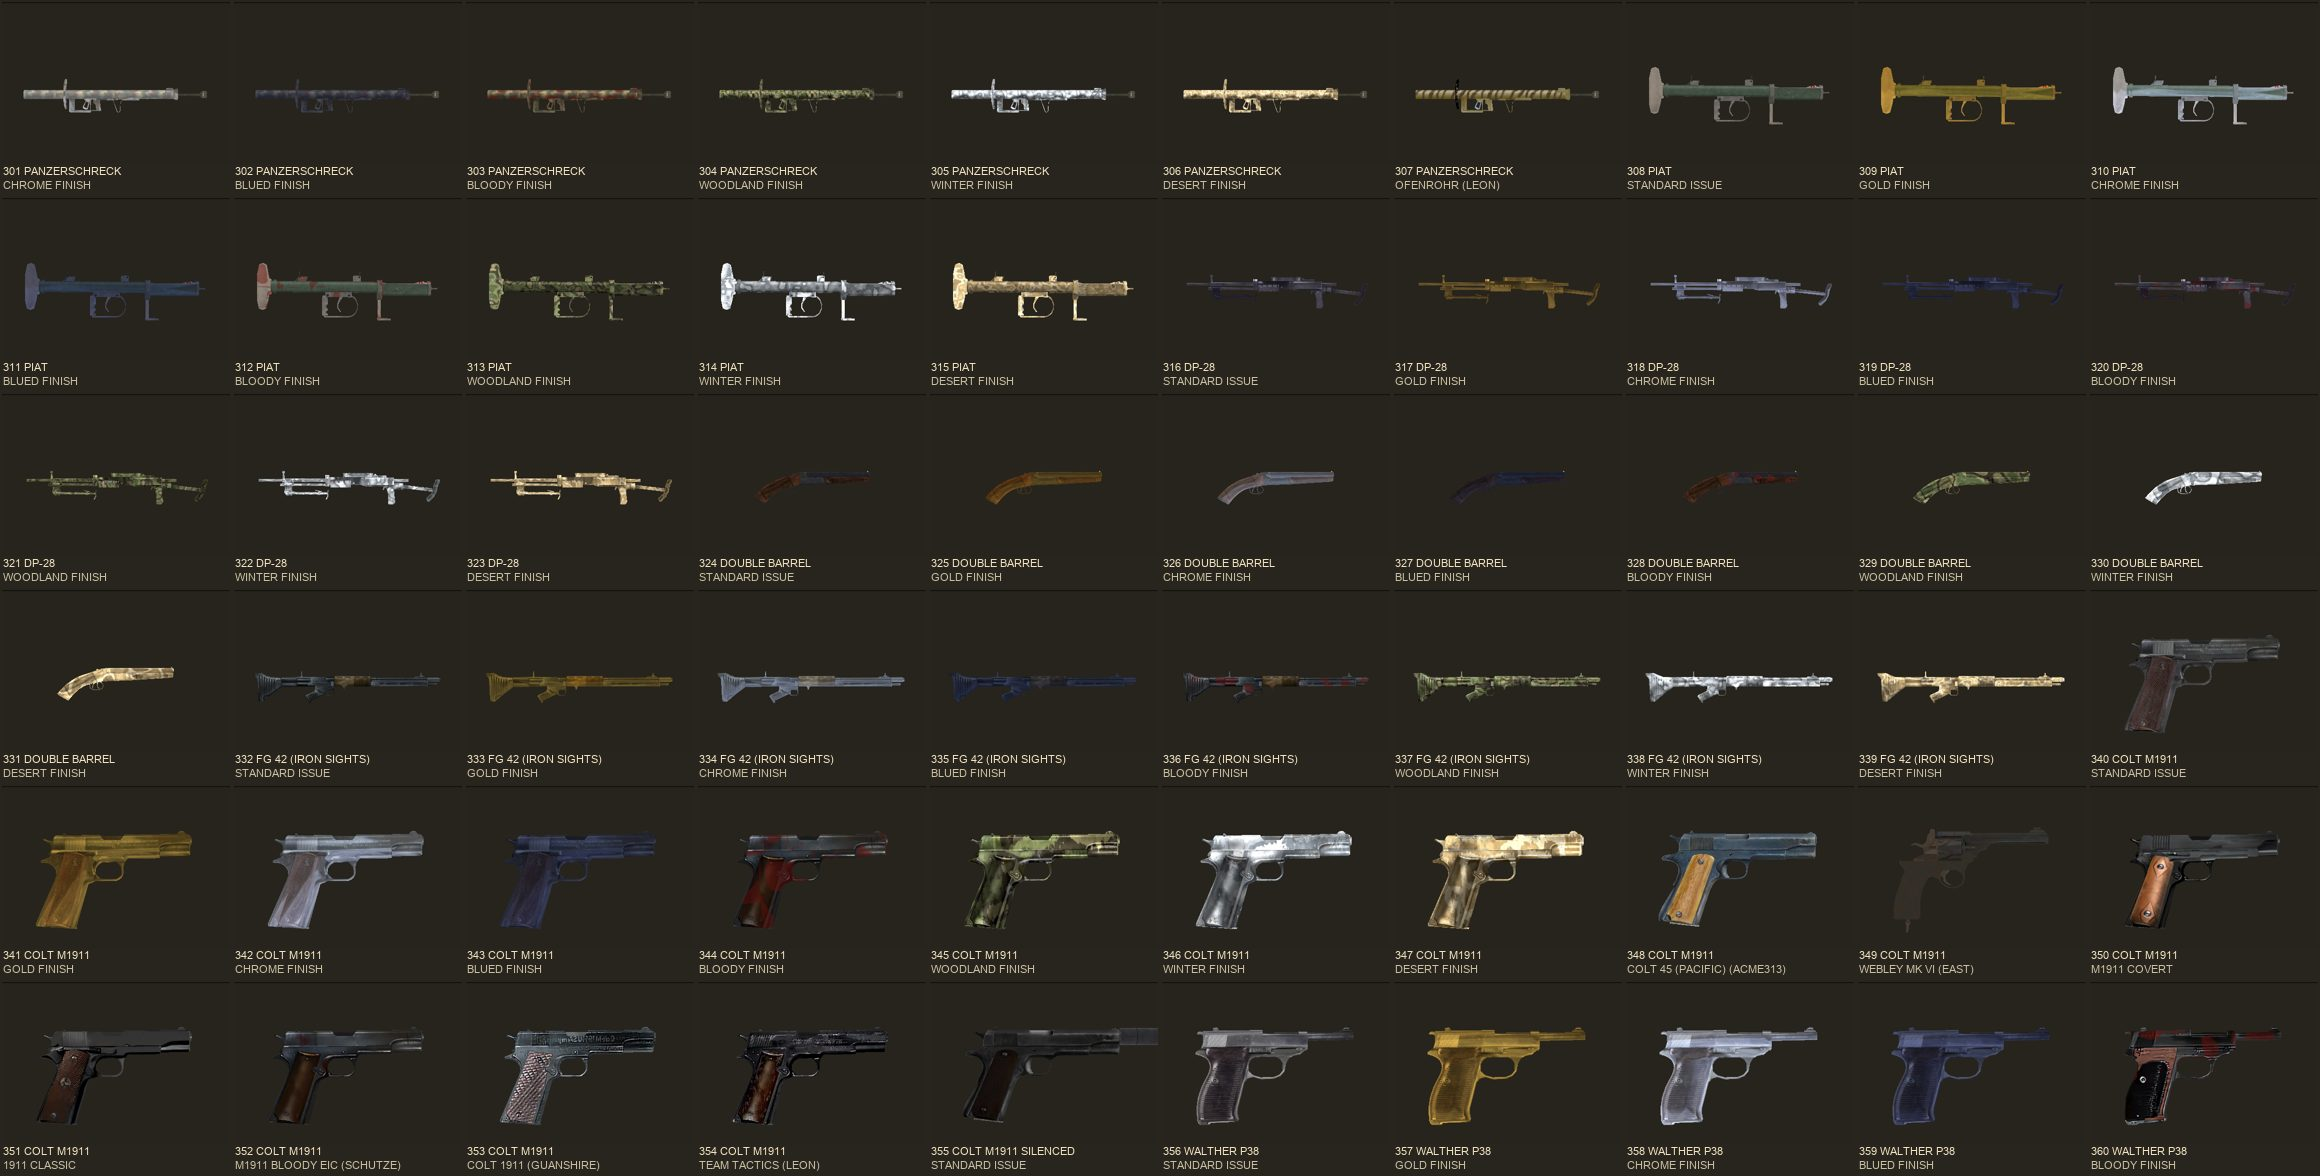
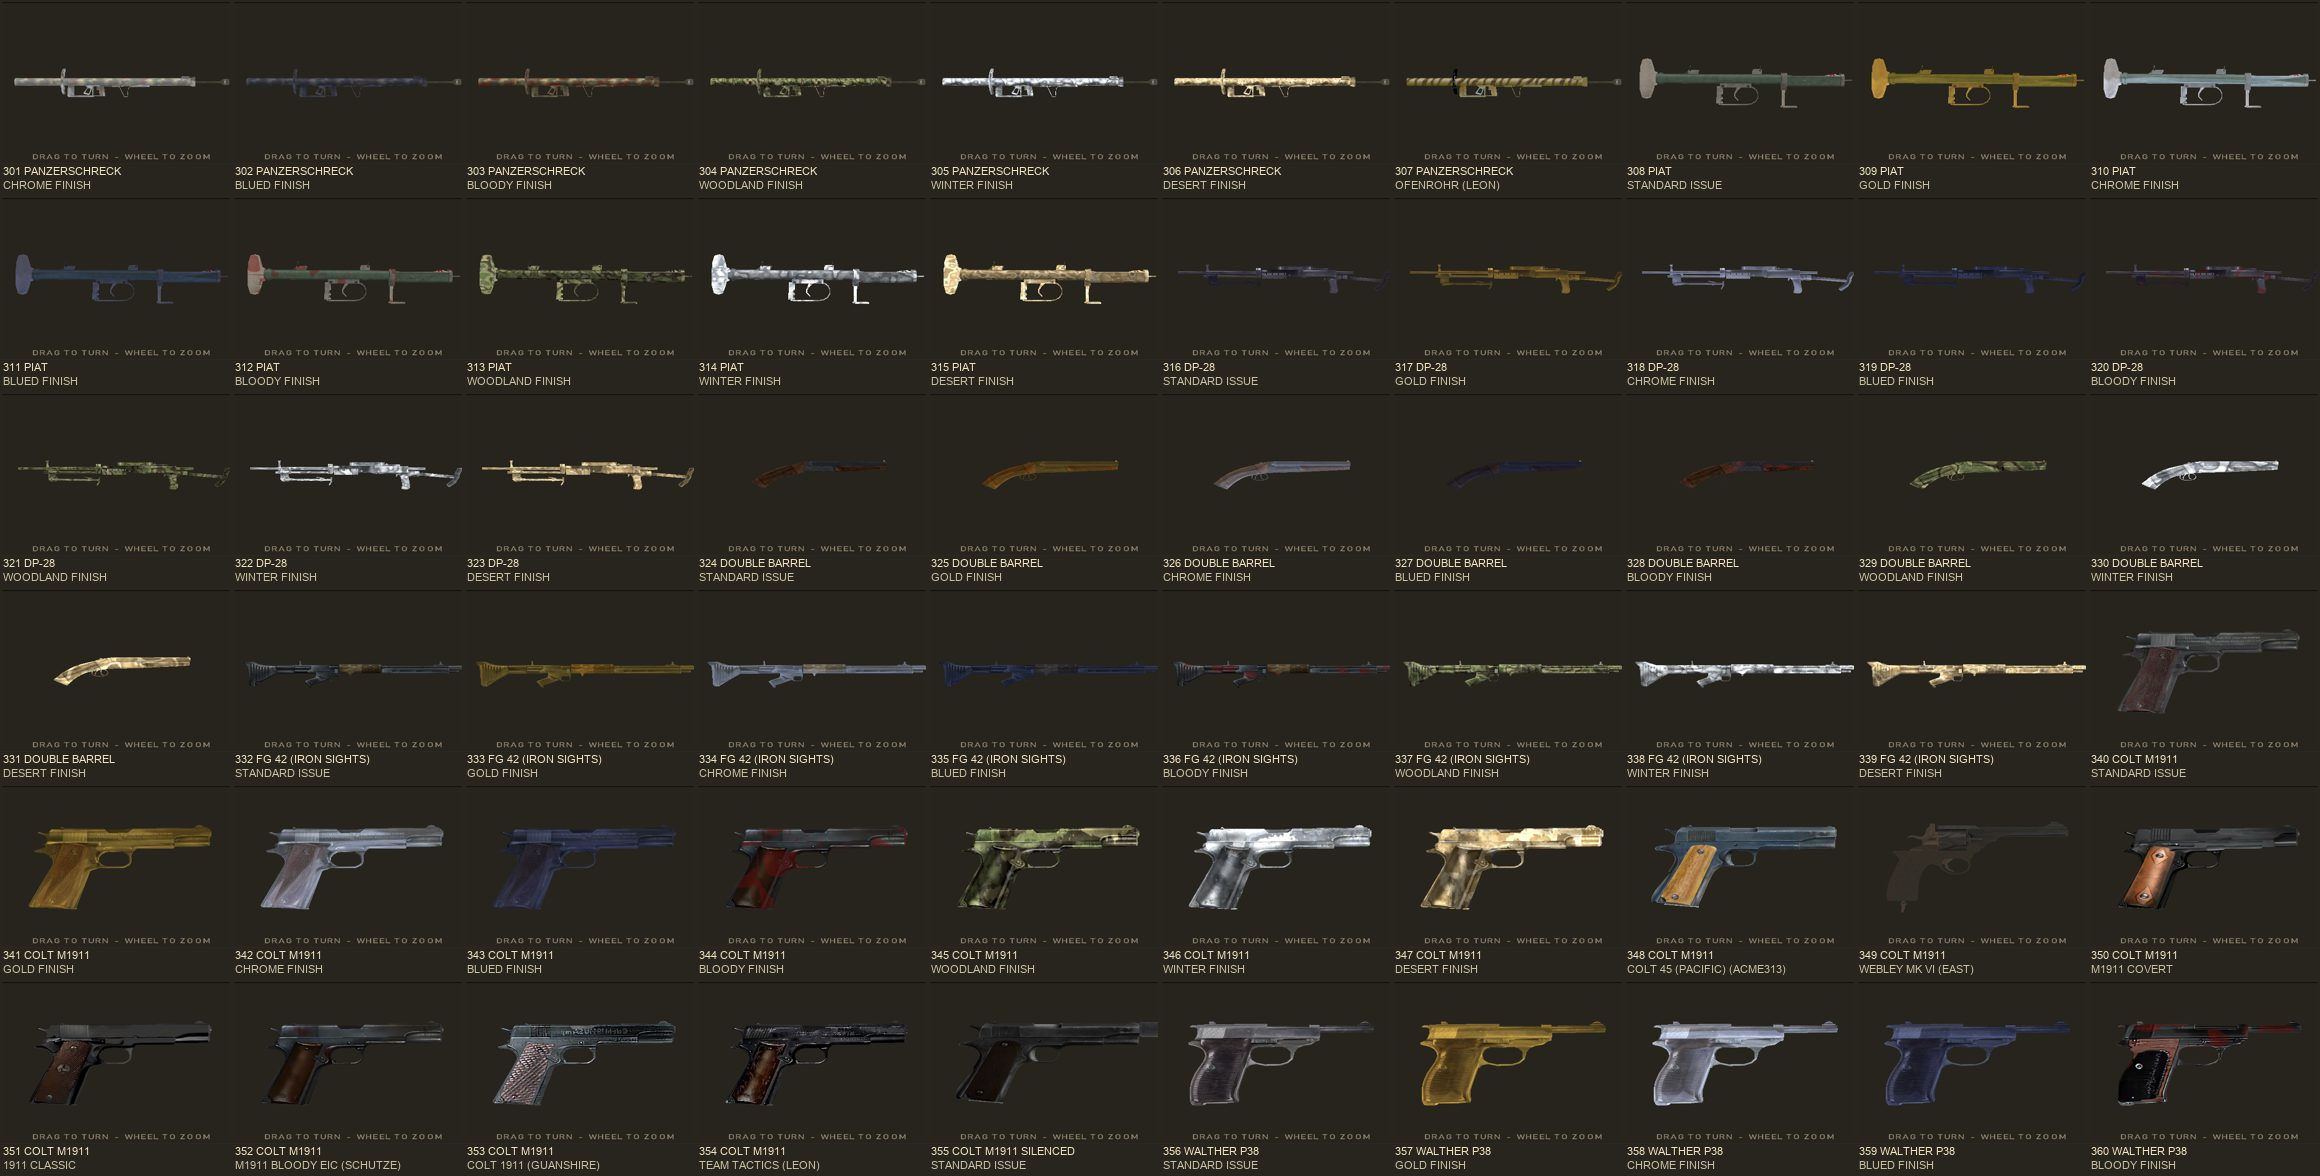
tools: gen_weapon_viewer follows the attic rack (replaces only RACK_CMD, pose from their hotspot, --rack-pose / --main), list fit asserted; re-shot QA

diff --git a/docs/tools/gen_weapon_viewer.py b/docs/tools/gen_weapon_viewer.py
@@ -381,8 +381,8 @@ WHITE = (1.0, 1.0, 1.0, 1.0)
 GLOW = "textures/mohmenu/hzm_theme/mpui_glow"
 GLOW_P = "textures/mohmenu/hzm_theme/mpui_glow_paper"
 
-LIST = (34, 98, 130, 14)          # x y w row-h of the gun list
-VIEW = (172, 98, 290, 250)        # the orbit viewer
+LIST = (34, 98, 176, 14)          # x y w row-h of the gun list: wide enough for the longest roster name at every aspect (asserted)
+VIEW = (216, 98, 246, 250)        # the orbit viewer
 RIGHT = (470, 98, 136)            # the info column
 HIST_Y, HIST_W, HIST_N = 398, 566, 4
 # the @3x fonts the engine swaps in at high resolutions run up to ~10 % wider than the 1x metrics measured here (seen at 1440x1080):
@@ -447,15 +447,27 @@ def approach(look_bu, dist, fov, lift=0.0, dirbu=None):
     return "%.1f %.1f %.1f %.2f %.2f %.2f %.2f" % (o[0], o[1], o[2], math.degrees(-math.asin(f[2])), math.degrees(math.atan2(f[1], f[0])), 0.0, fov)
 
 
-RACK_POSE = approach(RACK_C_BU, RACK_DIST, RACK_FOV, 0.0, RACK_DIR)
-RACK_CMD = ("set ui_scene_hot 0; exec ui/wpnview/open.cfg; globalwidgetcommand atticscene sceneleave 1; "
-            "globalwidgetcommand atticscene scenefly 0.6 %s; uiafter 0.6 pushmenu hzm_wpnview" % RACK_POSE)
-
-MAIN = os.path.join(MOD, "ui", "main.urc")
+MAIN = arg("--main", os.path.join(MOD, "ui", "main.urc"))     # --main: a main.urc elsewhere (merge rehearsal), read and written there
 main_raw = io.open(MAIN, "rb").read().decode("latin-1")
 main_nl = "\r\n" if "\r\n" in main_raw else "\n"
 main_t = main_raw.replace("\r\n", "\n")
 _scene = re.search(r'name "atticscene"\n(.*?)\n\}\n', main_t, re.S).group(1)
+
+# WHERE THE RACK IS belongs to the attic session. Precedence: --rack-pose "x y z pitch yaw roll fov" (and --rack-centre "x y z",
+# game units) on the command line; else the pose their own `scenehot "rack"` already flies to (the first `scenefly 0.6 <pose>`
+# in its command - their placeholder, or ours from an earlier run); else the RACK_C_BU defaults above. When they move the rack,
+# the viewer (hotspot command, the viewer's own camera, the test cfg) follows on the next run with no edit here.
+_POSE_RX = r"scenefly 0\.6 ((?:-?[\d.]+ ){6}-?[\d.]+)"
+_rack_hot = re.search(r'(?m)^scenehot "rack" (\S+) (\S+) (\S+) (\S+) "([^"]*)"', _scene)
+RACK_POSE = arg("--rack-pose")
+if not RACK_POSE and _rack_hot and re.search(_POSE_RX, _rack_hot.group(5)):
+    RACK_POSE = re.search(_POSE_RX, _rack_hot.group(5)).group(1)
+if not RACK_POSE:
+    RACK_POSE = approach(RACK_C_BU, RACK_DIST, RACK_FOV, 0.0, RACK_DIR)
+assert len(RACK_POSE.split()) == 7, RACK_POSE
+RACK_CENTRE = arg("--rack-centre")
+RACK_CMD = ("set ui_scene_hot 0; exec ui/wpnview/open.cfg; globalwidgetcommand atticscene sceneleave 1; "
+            "globalwidgetcommand atticscene scenefly 0.6 %s; uiafter 0.6 pushmenu hzm_wpnview" % RACK_POSE)
 ROOM = [l for l in _scene.splitlines() if l.startswith("scenemodel ") and "models/human/" not in l] + \
        [l for l in _scene.splitlines() if l.startswith("scenelight ")]
 assert len(ROOM) > 10, "atticscene models not found in main.urc"
@@ -463,15 +475,29 @@ assert len(ROOM) > 10, "atticscene models not found in main.urc"
 
 def splice_main(t):
     """the rack hotspot: the attic session's (make_attic_polish.py) if present - only its command changes - else ours, LAST"""
+    # a merge of this branch into the attic session's main.urc carries BOTH racks: drop ours (the [wpnviewer] widget block and a
+    # second copy of the three rack scene lines - theirs come first, ours were appended last) and keep theirs
+    ours = re.search(r"// ---- \[wpnviewer\] the rifle rack hotspot.*?// ---- \[wpnviewer\] end\n", t, re.S)
+    if ours and len(re.findall(r'(?m)^resource\nButton\n\{\nname "hot_rack"$', t)) > 1:
+        t = t.replace(ours.group(0), "")
+        for pfx in ('scenehot "rack" ', 'scenehotbox "rack" ', 'scenelabel "atticsign_rack" '):
+            lines = [m.start() for m in re.finditer(r"(?m)^" + re.escape(pfx), t)]
+            for s in reversed(lines[1:]):
+                t = t[:s] + t[t.index("\n", s) + 1:]
     if re.search(r'(?m)^scenehot "rack" ', t):
-        t = re.sub(r'(?m)^(scenehot "rack" \S+ \S+ \S+ \S+ )"[^"]*"', lambda m: m.group(1) + '"%s"' % RACK_CMD, t, count=1)
-        b = re.search(r'resource\nButton\n\{\nname "hot_rack"\n.*?\n\}\n', t, re.S)
-        assert b, "scenehot rack without its hot_rack proxy"
-        nb = re.sub(r'(?m)^stuffcommand "[^"]*"$', 'stuffcommand "%s"' % RACK_CMD, b.group(0))
-        return t.replace(b.group(0), nb), "rewired"
+        # replace ONLY the rack command (RACK_CMD in make_attic_polish.py): every exact copy of it - the hotspot, its hot_rack proxy
+        # and their RACK > cue (hzm_rackcue). The peek (scenepeek "rack" / PEEK_POSE), hover and gating lines are theirs and untouched.
+        old = re.search(r'(?m)^scenehot "rack" \S+ \S+ \S+ \S+ "([^"]*)"', t).group(1)
+        n = t.count('"%s"' % old)
+        assert n >= 2, "rack command found %d times (hotspot + hot_rack proxy at least)" % n
+        t = t.replace('"%s"' % old, '"%s"' % RACK_CMD)
+        if RACK_CENTRE:
+            t = re.sub(r'(?m)^scenehot "rack" \S+ \S+ \S+ ', lambda m: 'scenehot "rack" %s ' % " ".join("%.1f" % float(v) for v in RACK_CENTRE.split()), t, count=1)
+        assert re.search(r'resource\nButton\n\{\nname "hot_rack"\n', t), "scenehot rack without its hot_rack proxy"
+        return t, "rewired (%d copies of the rack command%s)" % (n, ", our duplicate rack removed" if ours and ours.group(0) not in t else "")
     hots = re.findall(r'(?m)^scenehot "(\w+)"', _scene)
     idx = len(hots) + 1
-    c = SP.conv(np.array(RACK_C_BU, float), 52.5)
+    c = [float(v) for v in RACK_CENTRE.split()] if RACK_CENTRE else SP.conv(np.array(RACK_C_BU, float), 52.5)
     sg = re.search(r'(?m)^scenelabel "atticsign\d+" (\S+ \S+ \S+ \S+ \S+)$', _scene).group(1)
     add = ['scenehot "rack" %.1f %.1f %.1f %.1f "%s" "WEAPONS RACK" "hot_rack" 0' % (c[0], c[1], c[2], 34.0, RACK_CMD),
            'scenehotbox "rack" 0.0 0.0 150.0 260.0', 'scenelabel "atticsign_rack" %s' % sg]
@@ -603,8 +629,7 @@ for k in range(len(TABS)):
     assert len(tg) * LIST[3] <= VIEW[3] + 150, "tab %d list too long" % k
     for j, g in enumerate(tg):
         nm = g["name"]
-        while width(nm) > (LIST[2] - 4) * FIT:
-            nm = nm[:-2].rstrip() + "."
+        assert width(nm) <= (LIST[2] - 4) * FIT, "gun name %r does not fit the list column" % nm
         r = (LIST[0], LIST[1] + j * LIST[3], LIST[2], LIST[3])
         U += W("Label", "gSel%s" % g["gid"], r, bg=SEL, enabledcvar="ui_wvTab==%d ui_wvG==%d" % (k, int(g["gid"])))
         U += W("Button", "g%s" % g["gid"], r, title=nm, fg=INK, bg=CLEAR, border="NONE", font="verdana-12", textalign="left",
@@ -622,17 +647,21 @@ for gid in ICON2D:
            enabledcvar="ui_wvG==%d" % int(gid))
 U += text("wvHint", (vx, vy + vh - 16, vw, 13), "DRAG TO TURN  -  WHEEL TO ZOOM", "verdana-12", (0.62, 0.57, 0.45, 0.8), "center")
 by = vy + vh + 4
-U += plate("vPrev", (vx, by, 24, 20), "<", "vstr ui_wvPrevV", font="verdana-14")
-U += W("Label", "vPlate", (vx + 26, by, vw - 52, 20), bg=PLATE, border="3D_BORDER")
-U += cvl("vName", (vx + 30, by + 3, vw - 100, 14), "ui_wvVar", "verdana-12", BEIGE)
-U += cvl("vNum", (vx + vw - 76, by + 3, 46, 14), "ui_wvVarN", "verdana-12", BEIGE, "right")
-U += plate("vNext", (vx + vw - 24, by, 24, 20), ">", "vstr ui_wvNextV", font="verdana-14")
+bx0, bw0 = LIST[0], vx + vw - LIST[0]          # the variant bar and the buttons span the list and the viewer
+U += plate("vPrev", (bx0, by, 24, 20), "<", "vstr ui_wvPrevV", font="verdana-14")
+U += W("Label", "vPlate", (bx0 + 26, by, bw0 - 52, 20), bg=PLATE, border="3D_BORDER")
+VNAME_W = bw0 - 110
+U += cvl("vName", (bx0 + 30, by + 3, VNAME_W, 14), "ui_wvVar", "verdana-12", BEIGE)
+U += cvl("vNum", (bx0 + bw0 - 76, by + 3, 46, 14), "ui_wvVarN", "verdana-12", BEIGE, "right")
+U += plate("vNext", (bx0 + bw0 - 24, by, 24, 20), ">", "vstr ui_wvNextV", font="verdana-14")
+for e in entries:
+    assert width(e["vname"]) <= VNAME_W * FIT, "variant name %r does not fit" % e["vname"]
 cy = by + 24
-bw = (vw - 6) / 4.0
+bw = (bw0 - 6) / 4.0
 for k, (nm, t, cmd) in enumerate((("gPrev", "PREV GUN", "vstr ui_wvPrevG"), ("gNext", "NEXT GUN", "vstr ui_wvNextG"),
                                   ("wvZoomB", "ZOOM", "vstr ui_wvZoomNext"), ("wvReset", "RESET VIEW", "set ui_wvSpin 0; set ui_wvTilt 0; exec ui/wpnview/z0.cfg"))):
-    U += plate(nm, (vx + k * (bw + 2), cy, bw, 20), t, cmd)
-U += cvl("wvNum", (LIST[0], cy + 4, LIST[2], 14), "ui_wvNum", "verdana-12", MUTED)
+    U += plate(nm, (bx0 + k * (bw + 2), cy, bw, 20), t, cmd)
+U += cvl("wvNum", (RIGHT[0], cy + 4, RIGHT[2], 14), "ui_wvNum", "verdana-12", MUTED)
 # the info column
 rx, ry, rw = RIGHT
 y = ry
@@ -716,7 +745,7 @@ if cmd == "list":
     sys.exit(0)
 stale = []
 for rel, txt in sorted(OUT.items()):
-    p = os.path.join(MOD, rel)
+    p = MAIN if rel == "ui/main.urc" else os.path.join(MOD, rel)
     data = txt.encode("latin-1") if rel.endswith("localization_coop.txt") else txt.encode("latin-1")
     if not os.path.exists(p) or open(p, "rb").read() != data:
         stale.append(rel)

diff --git a/docs/proposals/wpnviewer_2026-11-04/tools/wpnview_run.py b/docs/proposals/wpnviewer_2026-11-04/tools/wpnview_run.py
@@ -37,7 +37,9 @@ def setup(exe=None):
     with zipfile.ZipFile(os.path.join(MAINTT, OVERLAY), "w", zipfile.ZIP_DEFLATED) as z:
         for f in ("main.urc", "hzm_wpnview.urc", "hzm_attic_go_rack.cfg"):
             z.write(os.path.join(ui, f), "ui/" + f)
-        for f in ("springfield_m1903.tik", "KAR98sniper_g98scope.tik"):        # the two variant tiks fixed on this branch
+        fixed = ["springfield_m1903.tik", "KAR98sniper_g98scope.tik"] + ["tt33silenced_%s.tik" % k for k in
+                 ("gold", "chrome", "blued", "bloody", "camo_woodland", "camo_winter", "camo_desert")]
+        for f in fixed:                                                       # the variant tiks fixed on this branch
             z.write(os.path.join(MOD, "models", "weapons", f), "models/weapons/" + f)
         z.write(os.path.join(MOD, "global", "localization_coop.txt"), "global/localization_coop.txt")
         for f in sorted(os.listdir(os.path.join(ui, "wpnview"))):

diff --git a/docs/proposals/wpnviewer_2026-11-04/tools/contact.py b/docs/proposals/wpnviewer_2026-11-04/tools/contact.py
@@ -7,7 +7,7 @@ res = sys.argv[3] if len(sys.argv) > 3 else "720"
 W, H = {"720": (1280, 720), "1080": (1920, 1080), "43": (1440, 1080), "219": (1920, 804)}[res]
 s = H / 480.0
 ox = (W - 640 * s) / 2
-box = (int(ox + 172 * s), int(98 * s), int(ox + 462 * s), int(314 * s))
+box = (int(ox + 216 * s), int(98 * s), int(ox + 462 * s), int(348 * s))   # the viewer box (gen_weapon_viewer VIEW)
 E = {e["n"]: e for e in json.load(open(os.path.join(os.path.dirname(__file__), "..", "entries.json")))}
 TW, TH, COLS, ROWS = 232, 196, 10, 6
 font = ImageFont.truetype("arial.ttf", 11)

diff --git a/docs/proposals/wpnviewer_2026-11-04/README.md b/docs/proposals/wpnviewer_2026-11-04/README.md
@@ -28,24 +28,27 @@ name, brief history, credit if it's a skin someone made and how to unlock it ...
   **Older exe:** the three commands are unknown and silently ignored; the widget is the Armory hero preview with yaw drag
   (`media/viewer_oldexe_720.jpg`, no log errors).
 
-## Merge with the attic session's rack
-The attic session (`attic_polish_2026-11-02/tools/make_attic_polish.py`, branch attic-63) builds the rack and already appends
-`scenehot "rack"` LAST with `RACK_C_BU (2.90, 2.55, 1.56)` / `RACK_POSE` and a placeholder fly-there-and-back command, plus its
-`hot_rack` proxy and `atticsign_rack` caption. `gen_weapon_viewer.py` uses the same constants and is idempotent:
-* run it **after** `make_attic_polish.py` (last step of the main.urc rebuild order): when the rack hotspot exists it only rewrites
-  the `scenehot "rack"` command and the `hot_rack` stuffcommand (`rewired`); on a tree without it (this branch's base) it adds
-  hotspot + box + caption + proxy itself (`added`), marked `// ---- [wpnviewer]`.
-* when merging the branches, take attic-63's `main.urc` and re-run `HZM_MOD=<tree> python docs/tools/gen_weapon_viewer.py build`;
-  `check` must then report 0 stale files. If the rack moves, change `RACK_C_BU` / `RACK_DIST` in both scripts.
-* The viewer's backdrop copies every non-actor `scenemodel` / `scenelight` of `atticscene`, so after the rebuild it shows their rack.
-* Open (attic side): the rack is on the x 3.00 wall, outside the 16:9 and 4:3 home frame - only 21:9 can click it; the hot_rack
-  proxy gives pad / keyboard access. A 4:3 / 16:9 way in (a twin plate like WHAT'S NEW 4:3) is the attic session's call.
+## Merge with the attic session's rack (settled 2026-11-04)
+The attic session (`attic_polish_2026-11-02/tools/make_attic_polish.py`, branch attic-63) owns the rack: hotspot `rack` (index 17),
+proxy `hot_rack`, caption `atticsign_rack`, the RACK > cue `hzm_rackcue`, hotbox 0 0 150 260, `scenepeek "rack"` + PEEK_POSE
+(engine scenepeek on menu-attic63), RACK_POSE `133.9 -63.0 81.9 -0.00 -90.00 0.00 50.00`, and a placeholder RACK_CMD.
+`gen_weapon_viewer.py` replaces **only RACK_CMD**: every exact copy of the hotspot's command string (scenehot, hot_rack,
+hzm_rackcue - 3 copies on their tree). Peek, hover, gating and labels stay theirs.
+* **Rack position / fly pose follow theirs:** the pose is read from the first `scenefly 0.6 <pose>` in their rack command;
+  `--rack-pose "x y z p y r fov"` / `--rack-centre "x y z"` override it; RACK_C_BU defaults only when no rack exists.
+* **Order:** main.urc rebuild = make_main3d -> make_mphub3d -> make_newgame3d -> make_attic_polish -> **gen_weapon_viewer build**.
+  Take attic-63's main.urc when merging and re-run; `check` then reports 0 stale.
+* **Rehearsed** on a copy of their current main.urc (`--main <copy>`): `rewired (3 copies of the rack command)`, `check` 0 stale,
+  diff vs theirs = exactly the 3 command lines. If a merge keeps both racks (this branch added its own `[wpnviewer]` block on a
+  base without one), the generator drops ours and the duplicate scene lines and keeps theirs (rehearsed with git merge-file).
+* The viewer's backdrop copies every non-actor `scenemodel` / `scenelight` of `atticscene`, so after the rebuild it shows their rack
+  (and their new props: the rehearsal re-wrote `hzm_wpnview.urc` with the medal lid / reel models - expected).
 
 ## QA (720 / 4:3 1440x1080 / 21:9 1920x804, GL2, private client)
 `media/contact_720_01..08.jpg` (every entry), `viewer_{720,43,219}[_tilt].jpg`, `attic_rack_hover_720.jpg`, run folders under
 `H:\hzm_work\wpnviewer\runs\`. Mouse drag (spin 108 / tilt 48 after a 180x80 px drag) and the right stick both measured via cvars.
 Defects found: bug-10526 (two invisible WW1 variants, fixed), 10527 (generator), 10528 (light rig, dropped), 10529 (East's
 lightingSpherical imports render dark in any world-less preview, OPEN), 10530 (TT-33 SILENCED finishes tint only the suppressor,
-OPEN). Mills bomb: black 3D model, shown as the Armory's 2D icon (gen_loadout.ICON2D).
+OPEN), 10530 -> fixed in 10532 (TT-33 SILENCED finishes now skin the body). Coordinator QA 2026-11-04: list names (10531, fixed: column 176 px, fit asserted), MOSIN SNIPER SILENCED's tan cylinder (10533: the model's own canvas wrap, authored so, not a viewer fault). Mills bomb: black 3D model, shown as the Armory's 2D icon (gen_loadout.ICON2D).
 Not in the viewer: items with finishes that are not Armory guns (mine detectors, binoculars, the DBNO pistol, the `_lite` AI
 copies, the Kar98 rifle grenade).
